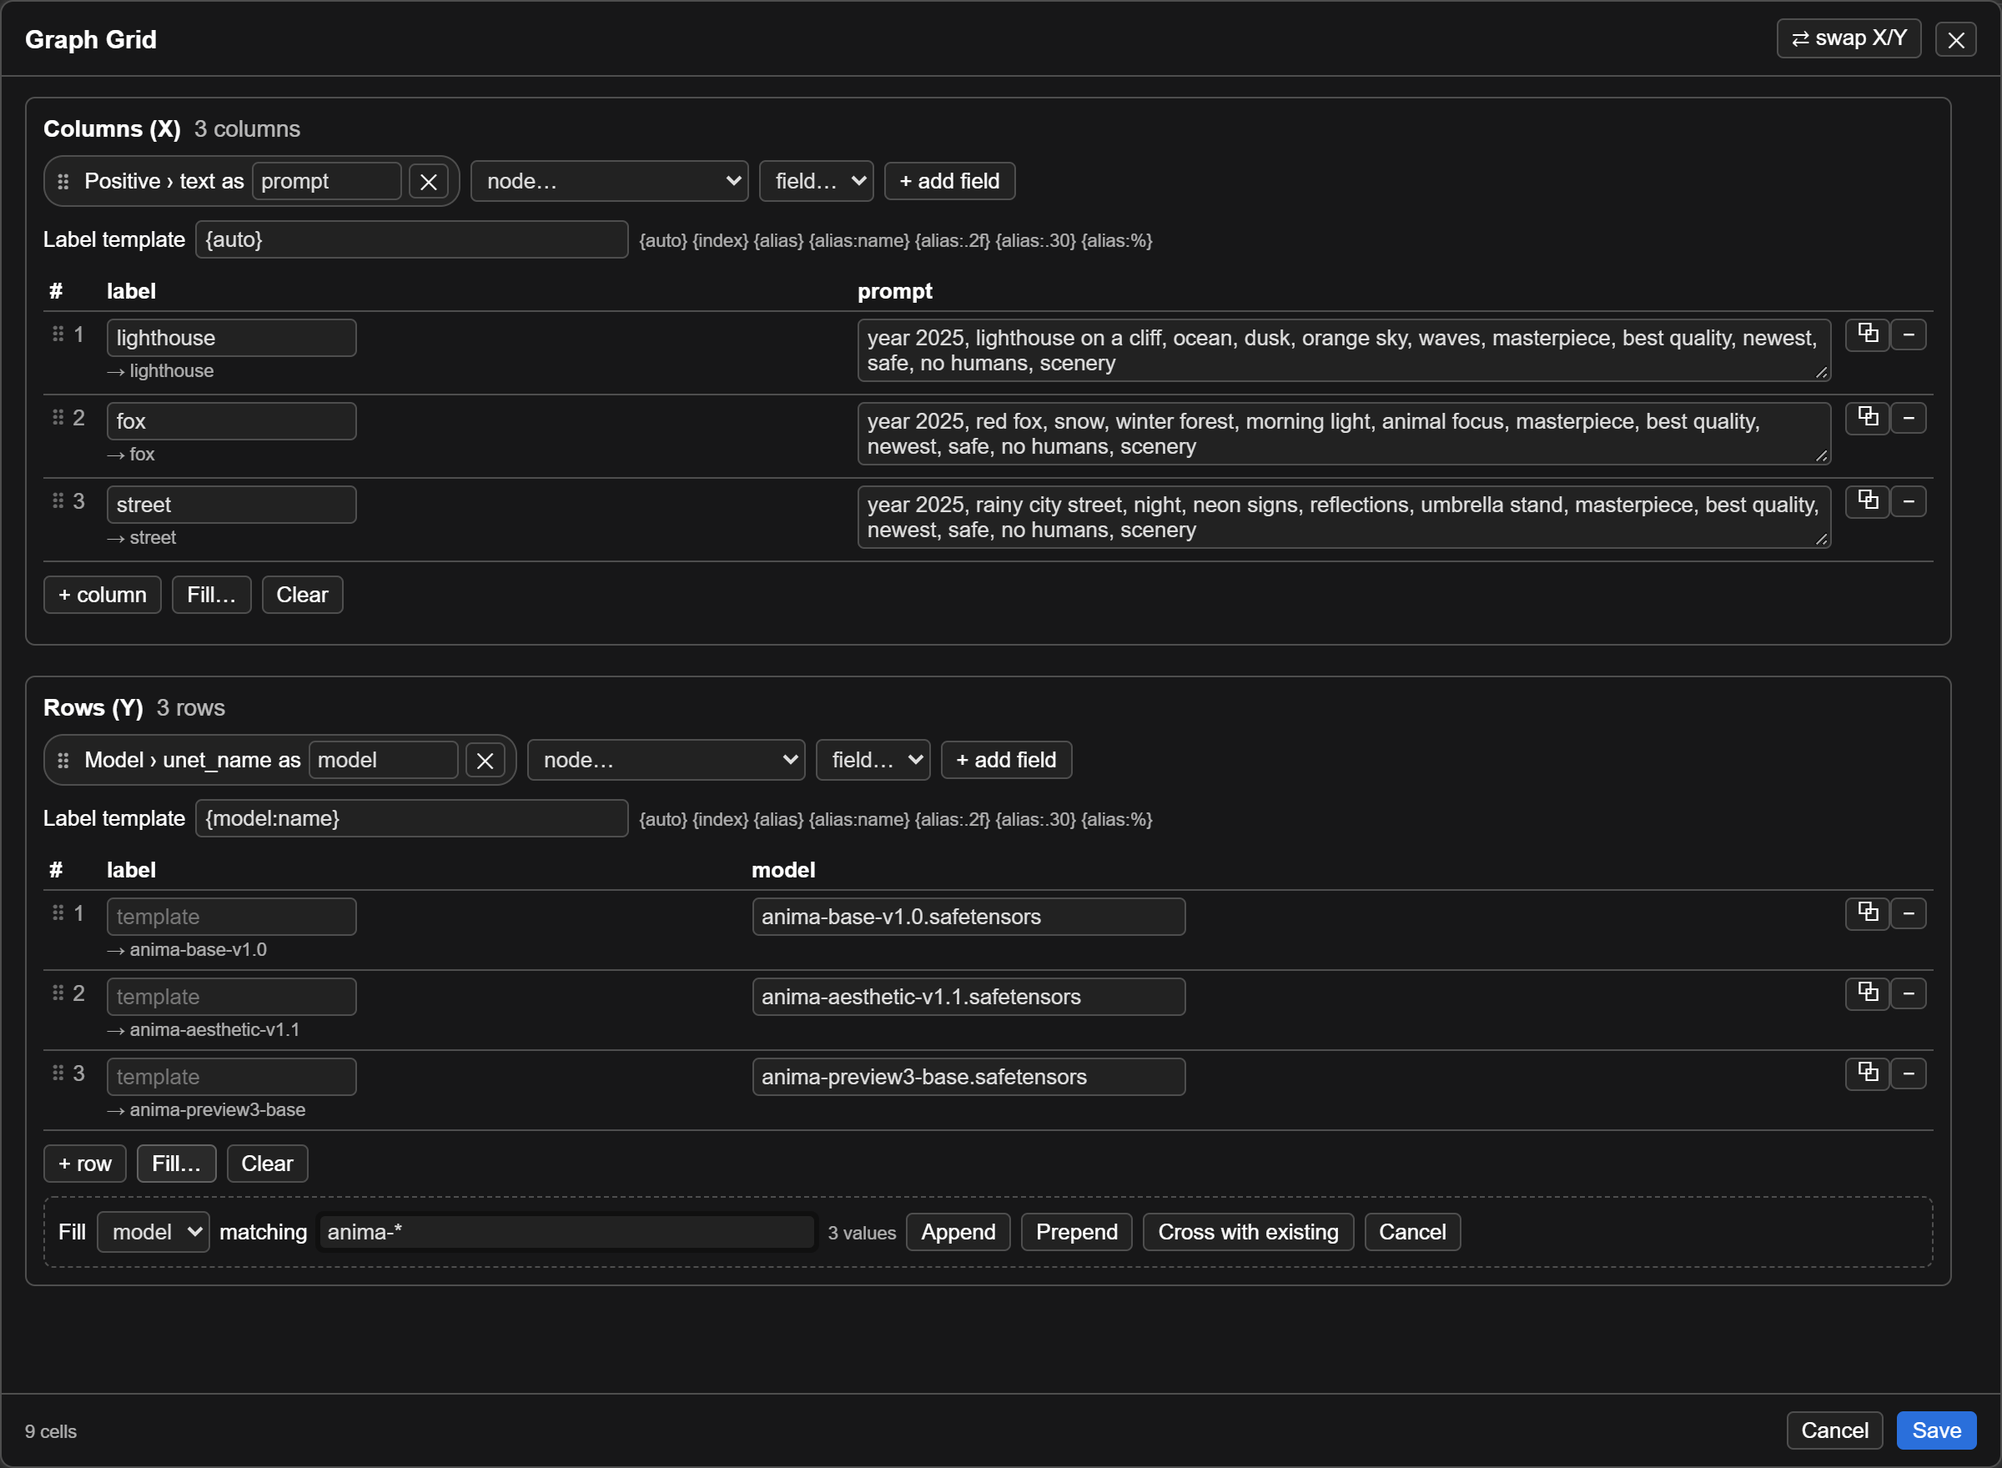
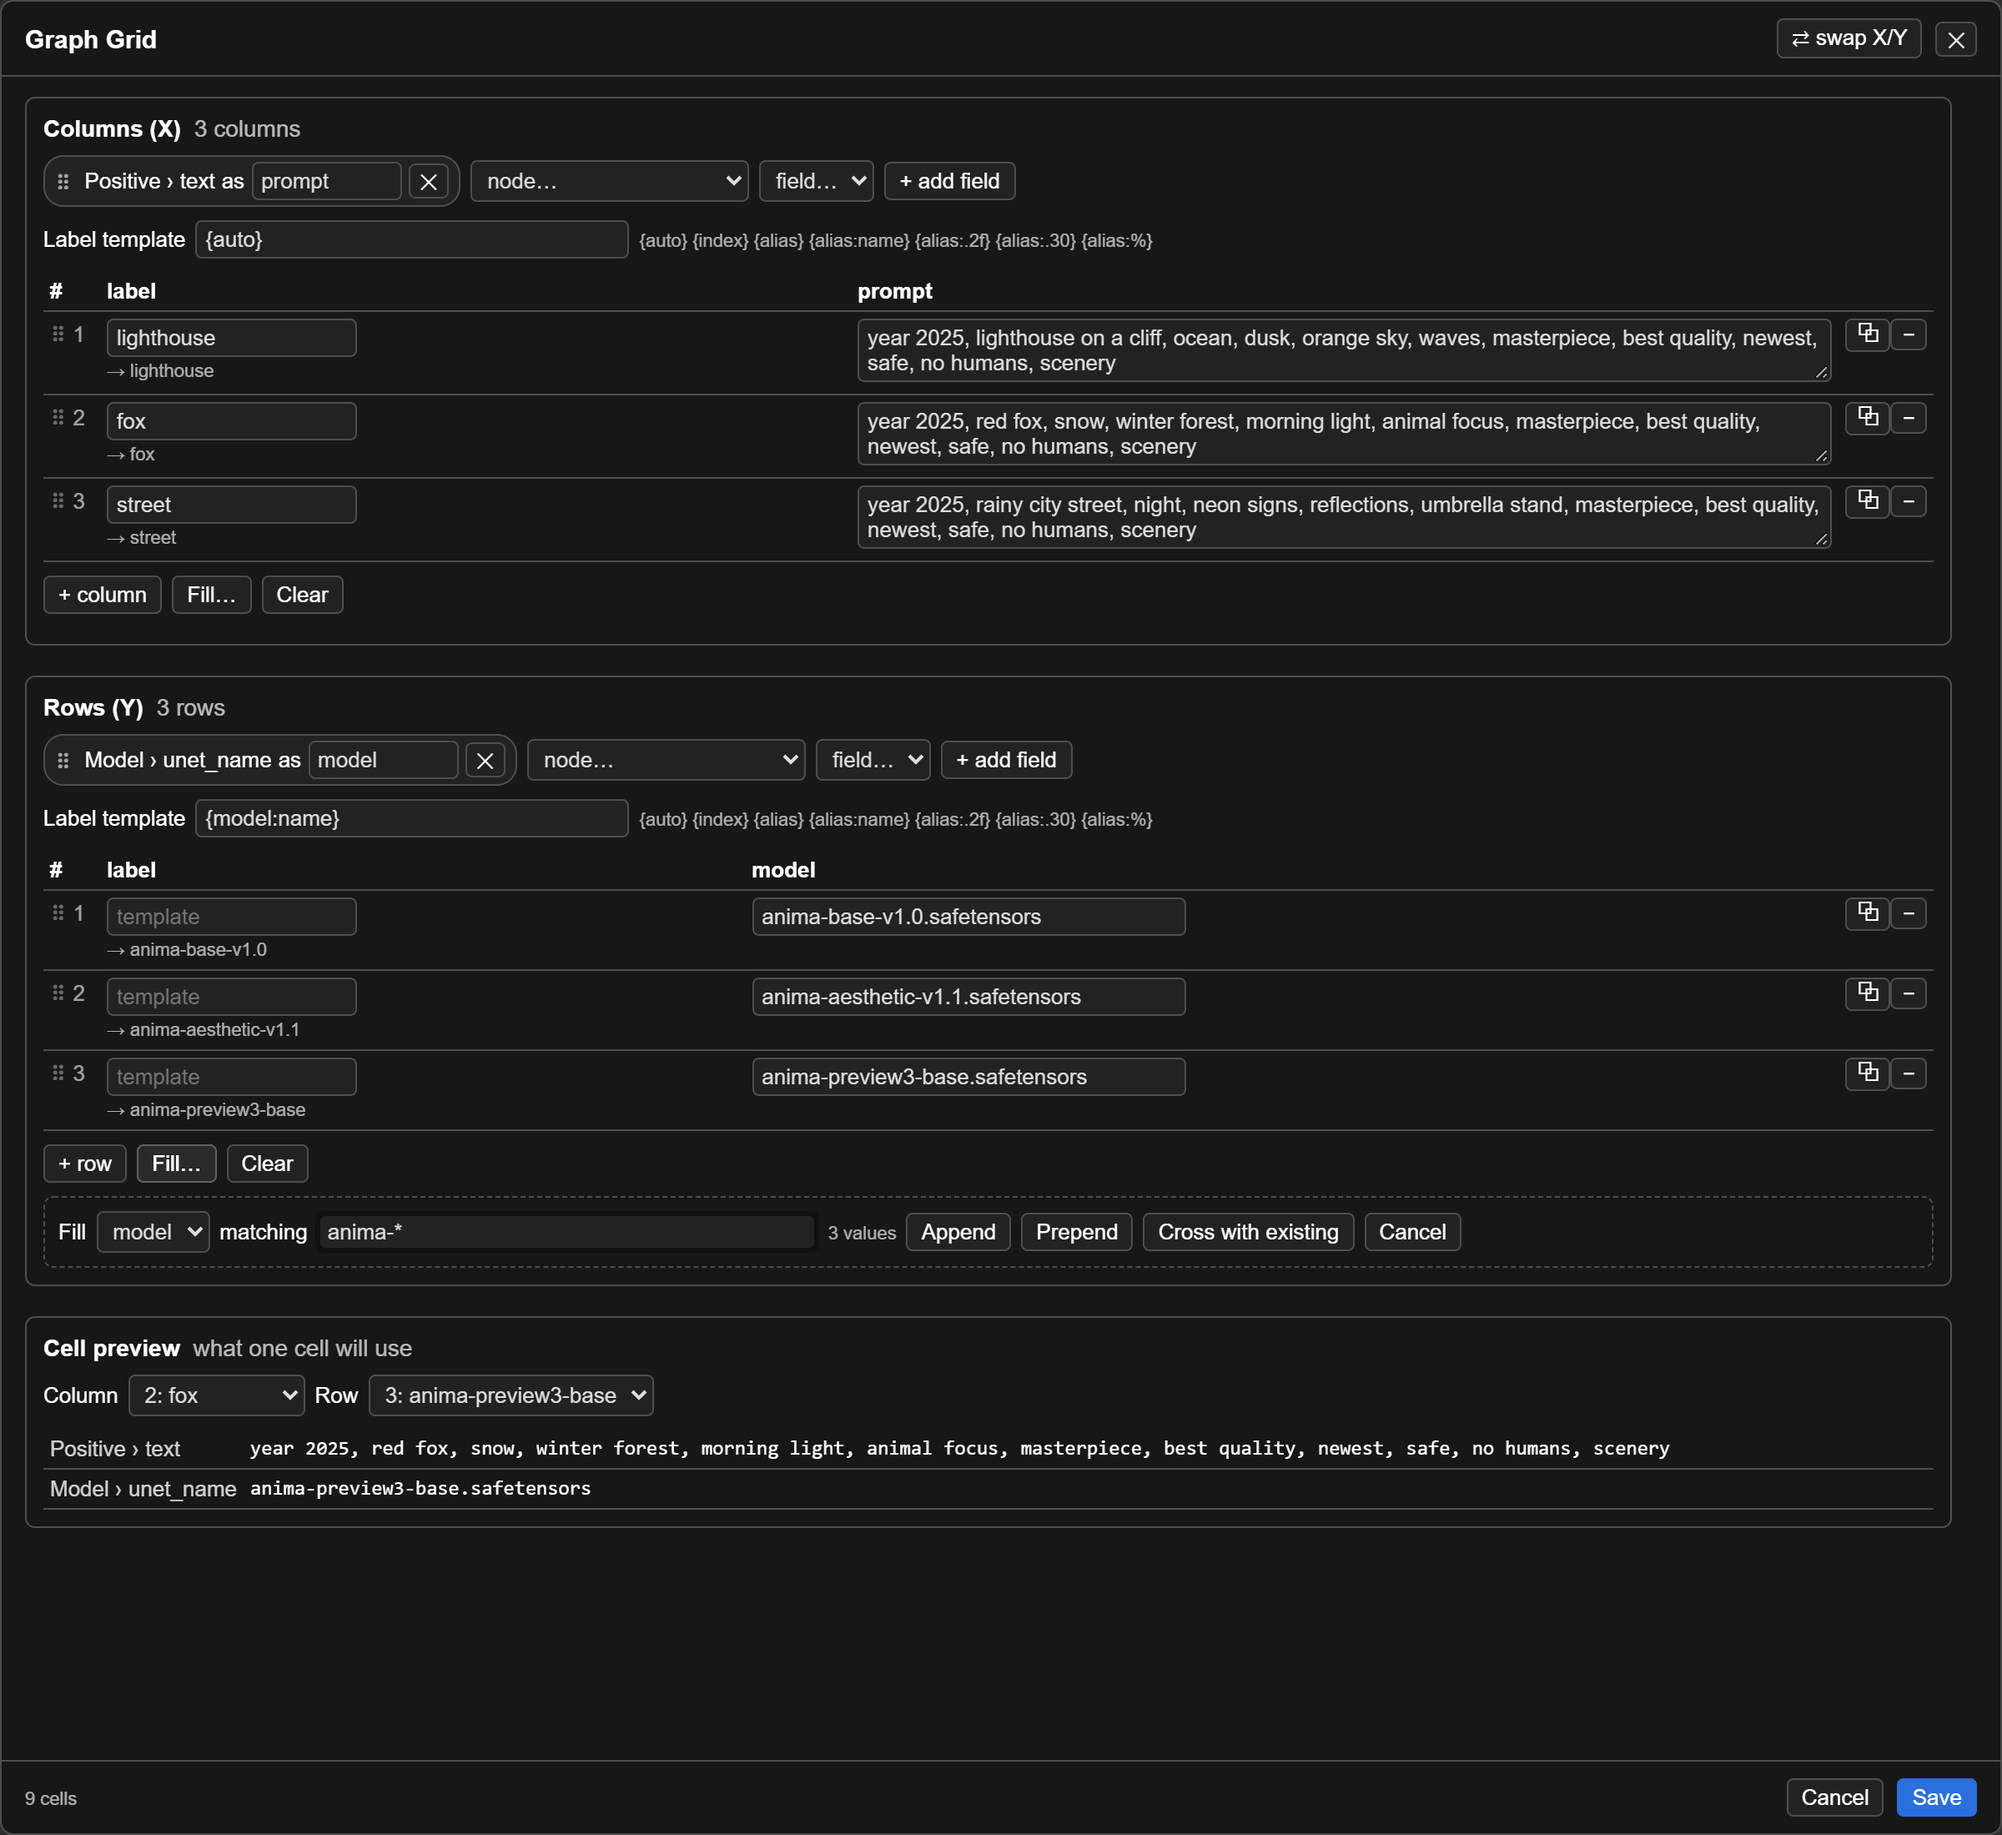
0.1.1: cell preview, progress in the title
- The editor has a cell preview: pick a column and a row to see the values
  that cell will use, with {v} filled in, columns applied before rows.
- Progress also goes in the node title (Graph Grid · 5/9) so it shows in
  Nodes 2.0's zoomed-out view; saved workflows keep the real title.
- Progress text names the cell's row and column.

diff --git a/web/graph_grid.js b/web/graph_grid.js
@@ -268,6 +268,8 @@ const CSS = `
 .gg-table tr.gg-over-after td { box-shadow: inset 0 -2px 0 #2a6fdb; }
 .gg-chip.gg-over-before { box-shadow: -3px 0 0 #2a6fdb; }
 .gg-chip.gg-over-after { box-shadow: 3px 0 0 #2a6fdb; }
+.gg-cell-key { white-space: nowrap; opacity: .8; width: 1%; }
+.gg-cell-val { white-space: pre-wrap; word-break: break-word; font-family: ui-monospace, monospace; font-size: 12px; }
 .gg-preview { display: block; font-size: 11px; opacity: .65; margin-top: 2px; min-height: 14px; }
 .gg-help { font-size: 11px; opacity: .65; }
 .gg-fill { display: flex; flex-wrap: wrap; gap: 6px; align-items: center; padding: 8px; margin-top: 8px;
@@ -406,9 +408,51 @@ function openEditor(plot, configWidget, onSave) {
         total.classList.toggle("gg-warn", n > MANY_CELLS);
     }
 
+    const cellView = h("div", { class: "gg-sec" });
+    const pick = { x: 0, y: 0 };
+
+    // The backend's order: column overrides, then row overrides, {v} being the value before each one.
+    function cellValues() {
+        const out = new Map();
+        for (const key of ["x", "y"]) {
+            const sec = cfg[key];
+            const entry = sec.entries[pick[key]];
+            if (!entry) continue;
+            for (const f of sec.fields) {
+                let v = entry.values?.[f.alias];
+                if (v === "" || v == null) continue;
+                if (v === '""') v = "";
+                const id = `${f.node}|${f.input}`;
+                const before = out.has(id) ? out.get(id).value : widgetInfo(graph, f).current;
+                if (typeof before === "string") v = String(v).replaceAll("{v}", before);
+                out.set(id, { field: f, value: v });
+            }
+        }
+        return [...out.values()];
+    }
+
+    function renderCell() {
+        const select = (key) => {
+            const sec = cfg[key];
+            if (!sec.entries.length) return h("span", { class: "gg-help" }, "none");
+            pick[key] = Math.min(pick[key], sec.entries.length - 1);
+            const sel = h("select", { onchange: (ev) => { pick[key] = Number(ev.target.value); renderCell(); } },
+                sec.entries.map((e, i) => h("option", { value: i }, `${i + 1}: ${entryLabel(sec, e, i) || "(no label)"}`)));
+            sel.value = String(pick[key]);
+            return sel;
+        };
+        const rows = cellValues().map(({ field, value }) => h("tr", {},
+            h("td", { class: "gg-cell-key" }, `${widgetInfo(graph, field).title} › ${field.input}`),
+            h("td", {}, h("div", { class: "gg-cell-val" }, String(value)))));
+        cellView.replaceChildren(
+            h("h4", {}, "Cell preview", h("span", { class: "gg-count" }, "what one cell will use")),
+            h("div", { class: "gg-row" }, "Column", select("x"), "Row", select("y")),
+            rows.length ? h("table", { class: "gg-table" }, rows) : h("div", { class: "gg-help" }, "This cell changes nothing."));
+    }
+
     function render() {
         const scroll = body.scrollTop;
-        const kids = [section("x", "Columns (X)"), section("y", "Rows (Y)")];
+        const kids = [section("x", "Columns (X)"), section("y", "Rows (Y)"), cellView];
         if (loadError) {
             kids.unshift(h("div", { class: "gg-err" }, `The stored grid config could not be read (${loadError}); `
                 + "saving will replace it."));
@@ -416,6 +460,7 @@ function openEditor(plot, configWidget, onSave) {
         if (!candidates.length) {
             kids.unshift(h("div", { class: "gg-err" }, "Connect the image input first; fields come from the nodes that feed it."));
         }
+        renderCell();
         body.replaceChildren(...kids);
         body.scrollTop = scroll;
         refreshTotal();
@@ -445,6 +490,7 @@ function openEditor(plot, configWidget, onSave) {
                 if (previews[i]) previews[i].textContent = "→ " + (entryLabel(sec, e, i) || "(no label)");
             });
             refreshTotal();
+            renderCell();
         };
 
         // fields
@@ -700,12 +746,34 @@ function hideWidget(w) {
 const PROGRESS_DONE_MS = 2500;
 const running = new Set();
 
-function showProgress(el, { done, total, stage }) {
+function progressText({ done, total, stage, columns }) {
+    if (stage === "drawing") return `Drawing the grid (${total} cells)…`;
+    if (stage === "done") return `Done: ${total} cells`;
+    if (!done || !columns) return `Rendering cell ${done} / ${total}`;
+    const row = Math.floor((done - 1) / columns) + 1;
+    const col = ((done - 1) % columns) + 1;
+    return `Rendering cell ${done} / ${total} · row ${row}, column ${col}`;
+}
+
+function showProgress(el, detail) {
+    const { done, total, stage } = detail;
     const pct = total ? Math.min(100, Math.round((done / total) * 100)) : 0;
-    const text = stage === "drawing" ? `Drawing the grid (${total} cells)…`
-        : stage === "done" ? `Done: ${total} cells` : `Rendering cell ${done} / ${total}`;
-    el.replaceChildren(h("div", { class: "gg-mini-line" }, text),
+    el.replaceChildren(h("div", { class: "gg-mini-line" }, progressText(detail)),
         h("div", { class: "gg-bar" }, h("div", { style: `width: ${stage === "cells" ? pct : 100}%` })));
+}
+
+// The summary is part of the node body, which zoomed-out views (and Nodes 2.0's simplified view) leave
+// out, so the count also goes in the title. serialize() keeps the real title in saved workflows.
+function setTitleProgress(node, detail) {
+    if (node.ggTitle === undefined) node.ggTitle = node.title;
+    const tag = detail.stage === "cells" ? `${detail.done}/${detail.total}` : "drawing…";
+    node.title = `${node.ggTitle} · ${tag}`;
+}
+
+function restoreTitle(node) {
+    if (node.ggTitle === undefined) return;
+    node.title = node.ggTitle;
+    node.ggTitle = undefined;
 }
 
 api.addEventListener("graphgrid.progress", ({ detail }) => {
@@ -741,6 +809,7 @@ app.registerExtension({
 
             const mini = h("div", { class: "gg-mini" });
             const refresh = () => {
+                restoreTitle(node);
                 renderSummary(mini, parseConfig(configWidget.value));
                 node.setDirtyCanvas?.(true, true);
             };
@@ -754,7 +823,15 @@ app.registerExtension({
             node.ggRefresh = refresh;
             node.ggProgress = (detail) => {
                 showProgress(mini, detail);
+                if (detail.stage === "done") restoreTitle(node);
+                else setTitleProgress(node, detail);
                 node.setDirtyCanvas?.(true, true);
+            };
+            const serialize = node.serialize;
+            node.serialize = function () {
+                const data = serialize.apply(this, arguments);
+                if (node.ggTitle !== undefined) data.title = node.ggTitle;
+                return data;
             };
             const onConfigure = node.onConfigure;
             node.onConfigure = function () {

diff --git a/__init__.py b/__init__.py
@@ -254,11 +254,12 @@ def _check_config(cfg):
             raise ValueError(f"Graph Grid: config.{key} has entries but no fields, so every cell would be the same")
 
 
-def _progress(owner, done, total, stage):
+def _progress(owner, done, total, stage, columns=0):
     # Shown on the Graph Grid node by web/graph_grid.js; cached cells send nothing, so counts can jump.
     server = getattr(PromptServer, "instance", None) if PromptServer else None
     if server is not None and owner:
-        server.send_sync("graphgrid.progress", {"node": owner, "done": done, "total": total, "stage": stage}, server.client_id)
+        server.send_sync("graphgrid.progress", {"node": owner, "done": done, "total": total, "stage": stage,
+                                                "columns": columns}, server.client_id)
 
 
 def _class_has_fingerprint(class_type):
@@ -435,7 +436,7 @@ class GraphGrid:
                         "images": img, "filename_prefix": "/".join(p for p in (cells_prefix.strip("/ "), name) if p)}}
                 collect = f"{unique_id}.gg.collect.{r}.{c}"
                 graph[collect] = {"class_type": "GraphGridCollect", "inputs": {
-                    "image": img, "owner": unique_id, "index": r * len(xs) + c + 1, "total": total,
+                    "image": img, "owner": unique_id, "index": r * len(xs) + c + 1, "total": total, "columns": len(xs),
                     **({"previous": [prev, 0]} if prev else {})}}
                 prev = collect
 
@@ -455,6 +456,7 @@ class GraphGridCollect:
             "owner": ("STRING", {"default": ""}),
             "index": ("INT", {"default": 0, "min": 0, "max": 1 << 30}),
             "total": ("INT", {"default": 0, "min": 0, "max": 1 << 30}),
+            "columns": ("INT", {"default": 0, "min": 0, "max": 1 << 30}),
         }}
 
     DEV_ONLY = True
@@ -462,8 +464,8 @@ class GraphGridCollect:
     FUNCTION = "collect"
     CATEGORY = "Graph Grid/internal"
 
-    def collect(self, image, previous=None, owner="", index=0, total=0):
-        _progress(owner, index, total, "cells")
+    def collect(self, image, previous=None, owner="", index=0, total=0, columns=0):
+        _progress(owner, index, total, "cells", columns)
         return ((previous or []) + [image],)
 
 

diff --git a/docs/src/screenshots.py b/docs/src/screenshots.py
@@ -41,7 +41,7 @@ def guard(route, request):
 
 with sync_playwright() as p:
     browser = p.chromium.launch(channel="msedge", headless=True)
-    ctx = browser.new_context(viewport={"width": 1600, "height": 1000}, device_scale_factor=2, color_scheme="dark")
+    ctx = browser.new_context(viewport={"width": 1600, "height": 1250}, device_scale_factor=2, color_scheme="dark")
     page = ctx.new_page()
     page.route("**/*", guard)
     page.goto(HOST, wait_until="networkidle")
@@ -107,7 +107,7 @@ with sync_playwright() as p:
     page.screenshot(path=str(OUT / "workflow.png"), clip=box)
 
     # 2. The node itself, showing a run in progress.
-    page.evaluate("() => window.__gg.ggProgress?.({ done: 7, total: 9, stage: 'cells' })")
+    page.evaluate("() => window.__gg.ggProgress?.({ done: 7, total: 9, stage: 'cells', columns: 3 })")
     page.wait_for_timeout(400)
     page.screenshot(path=str(OUT / "node.png"), clip=node_box("window.__gg"))
     page.evaluate("() => window.__gg.ggRefresh?.()")
@@ -117,6 +117,9 @@ with sync_playwright() as p:
     page.wait_for_selector("dialog.gg-dialog[open]")
     page.locator("dialog.gg-dialog .gg-sec").nth(1).get_by_role("button", name="Fill…").click()
     page.locator("dialog.gg-dialog .gg-fill input").first.fill("anima-*")
+    preview = page.locator("dialog.gg-dialog .gg-sec").nth(2).locator("select")
+    preview.nth(0).select_option("1")
+    preview.nth(1).select_option("2")
     page.wait_for_timeout(800)
     page.locator("dialog.gg-dialog").screenshot(path=str(OUT / "editor.png"))
     browser.close()

diff --git a/README.md b/README.md
@@ -39,10 +39,11 @@ Tested on ComfyUI 0.41.0. Labels need Pillow 10.1 or newer, which current ComfyU
    - **+ column / + row** adds an entry. A blank cell leaves the widget unchanged.
    - **Fill…** generates entries: a number range, a wildcard over a dropdown's options (`*epoch[468]*`), or one value per line. *Append*, *Prepend*, or *Cross with existing* (every existing entry times every value).
    - Drag the ⠿ handle to reorder fields and entries.
+   - **Cell preview** at the bottom: pick a column and a row to see the exact values that cell will use, with `{v}` filled in.
 
 <p align="center"><img src="docs/editor.png" width="880" alt="The grid editor: prompts as columns, models as rows, Fill open on the rows"></p>
 
-3. Queue. The node counts the cells as they finish, and the grid appears in the Save Image or Preview Image node.
+3. Queue. The node counts the cells as they finish (also in its title, so you can follow it zoomed out), and the grid appears in the Save Image or Preview Image node.
 
 <p align="center"><img src="docs/node.png" width="360" alt="Graph Grid node during a run"></p>
 
